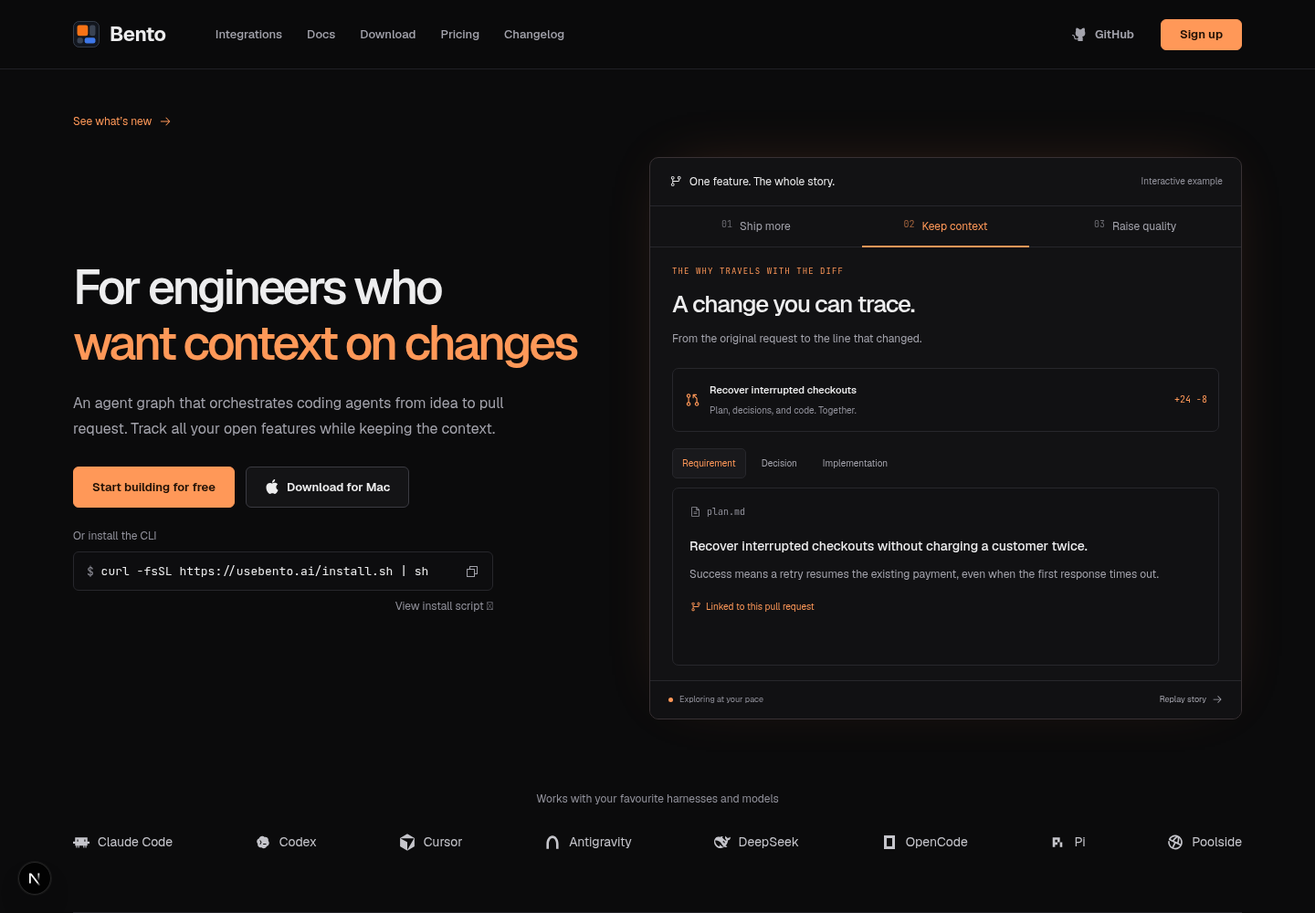
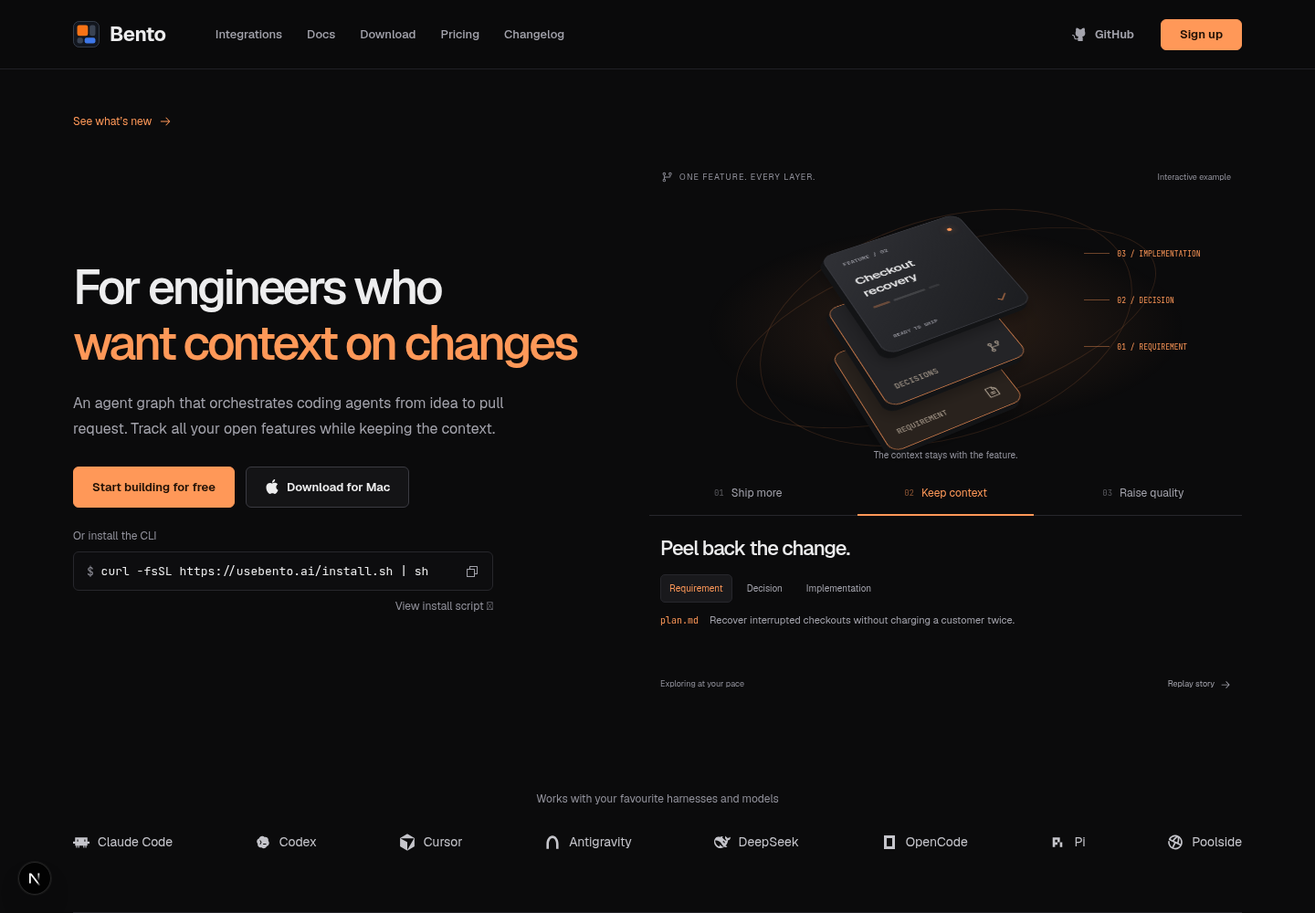
Transform the hero into animated 3D feature layers

diff --git a/app/marketing.css b/app/marketing.css
@@ -782,84 +782,94 @@ body:has(.marketing-page) {
   .marketing-page *, .marketing-page *::before, .marketing-page *::after { animation: none !important; transition: none !important; scroll-behavior: auto !important; }
 }
 
-/* The hero's headline and example share one story clock. */
+/* A shared 3D sculpture transforms with the headline. */
 @media (min-width: 801px) { .m-hero-heading:has(.hero-story-demo) { padding-block: 24px; } }
-.hero-story-demo { font-size: 12px; }
-.story-topbar, .story-topbar > span, .story-footer, .story-footer > span { display: flex; align-items: center; }
-.story-topbar { justify-content: space-between; gap: 12px; padding: 17px 20px; border-bottom: 1px solid var(--line); }
-.story-topbar > span { gap: 8px; }
-.story-example { color: var(--text-faint); font-size: 10px; }
-.story-chapters { display: grid; grid-template-columns: repeat(3, minmax(0, 1fr)); border-bottom: 1px solid var(--line); padding: 0 12px; }
-.story-chapters button { position: relative; display: flex; justify-content: center; gap: 8px; padding: 13px 4px; color: var(--text-muted); background: none; border: 0; font: inherit; cursor: pointer; }
-.story-chapters button > span { font: 10px var(--font-jetbrains-mono), monospace; opacity: .6; }
+.marketing-page .hero-story-demo { --slab: #1f2024; --slab-edge: #37383e; --slab-ink: #ededee; border: 0; background: transparent; box-shadow: none; overflow: visible; font-size: 12px; }
+.story-topbar { display: flex; align-items: center; justify-content: space-between; gap: 10px; color: var(--text-faint); font-size: 9px; padding-inline: 12px; }
+.story-topbar > span:first-child { display: flex; align-items: center; gap: 7px; letter-spacing: .12em; }
+.feature-stage { position: relative; height: 315px; perspective: 1100px; isolation: isolate; overflow: hidden; }
+.feature-stage::before { content: ""; position: absolute; inset: 12% 6%; background: radial-gradient(ellipse, color-mix(in srgb, var(--brand) 14%, transparent), transparent 65%); }
+.feature-orbit { position: absolute; width: 420px; height: 240px; left: 50%; top: 38px; border: 1px solid color-mix(in srgb, var(--brand) 14%, transparent); border-radius: 50%; transform: translateX(-50%) rotate(-17deg); }
+.feature-orbit::after { content: ""; position: absolute; inset: 30px -30px; border: inherit; border-radius: 50%; }
+.feature-world { position: absolute; left: 50%; top: 47%; width: 0; height: 0; transform-style: preserve-3d; transform: rotateX(46deg) rotateZ(-28deg); }
+.feature-cluster { position: absolute; width: 160px; height: 160px; left: -80px; top: -80px; transform-style: preserve-3d; transition: transform 1000ms cubic-bezier(.22,1,.36,1), opacity 650ms; }
+.feature-cluster-0 { transform: translate3d(-167px, -32px, 12px); }
+.feature-cluster-1 { transform: translate3d(0, 16px, 36px); }
+.feature-cluster-2 { transform: translate3d(167px, 64px, 60px); }
+.feature-slab { position: absolute; inset: 0; border: 1px solid var(--slab-edge); border-radius: 13px; background: var(--slab); color: var(--slab-ink); box-shadow: -1px 1px 0 #131416, -2px 2px 0 #131416, -3px 3px 0 #131416, -4px 4px 0 #131416, -5px 5px 0 #131416, -6px 6px 0 #131416, -8px 12px 18px #0004; padding: 16px; transition: transform 1000ms cubic-bezier(.22,1,.36,1), background 650ms, border-color 650ms; backface-visibility: hidden; }
+.feature-slab-base, .feature-slab-middle { display: flex; align-items: flex-end; justify-content: space-between; font: 9px var(--font-jetbrains-mono), monospace; color: #b7a999; }
+.feature-slab-base { transform: translateZ(-22px); background: #29221d; border-color: #5a4030; }
+.feature-slab-middle { transform: translateZ(-11px); background: #242427; }
+.feature-slab-top { transform: translateZ(0); background: linear-gradient(135deg, #303136, #1c1d20); }
+.feature-card-top, .feature-card-bottom { display: flex; align-items: center; justify-content: space-between; color: #b6b6bf; font: 7px var(--font-jetbrains-mono), monospace; }
+.feature-card-top i { width: 5px; height: 5px; border-radius: 50%; background: #ff9858; box-shadow: 0 0 8px #ff985880; }
+.feature-slab-top strong { display: block; max-width: 100px; margin-top: 16px; font-size: 15px; font-weight: 550; line-height: 1.3; letter-spacing: -.03em; }
+.feature-card-lines { display: flex; gap: 4px; margin-top: 12px; }
+.feature-card-lines i { width: 18px; height: 3px; border-radius: 3px; background: #ff98584d; }
+.feature-card-lines i:nth-child(2) { width: 35px; background: #ffffff20; }
+.feature-card-lines i:nth-child(3) { width: 12px; background: #ffffff15; }
+.feature-card-bottom { position: absolute; bottom: 12px; left: 16px; right: 16px; font-size: 6px; }
+.feature-card-bottom svg { color: #ff9858; }
+.hero-story-demo:not([data-chapter="0"]) .feature-cluster-0 { transform: translate3d(-260px, 0, -100px) scale(.6); opacity: 0; }
+.hero-story-demo:not([data-chapter="0"]) .feature-cluster-2 { transform: translate3d(260px, 0, -100px) scale(.6); opacity: 0; }
+.hero-story-demo[data-chapter="1"] .feature-cluster-1 { transform: translate3d(-36px, 20px, 0); }
+.hero-story-demo[data-chapter="1"] .feature-cluster-1 .feature-slab-base { transform: translateZ(-56px); border-color: #be7346; }
+.hero-story-demo[data-chapter="1"] .feature-cluster-1 .feature-slab-middle { transform: translateZ(14px); border-color: #be7346; }
+.hero-story-demo[data-chapter="1"] .feature-cluster-1 .feature-slab-top { transform: translateZ(88px); }
+.hero-story-demo[data-chapter="2"] .feature-cluster-1 { transform: translate3d(-20px, 10px, 12px); }
+.hero-story-demo[data-chapter="2"] .feature-cluster-1 .feature-slab { border-color: #ff9858; }
+.feature-scan { position: absolute; width: 188px; height: 188px; top: -98px; left: -114px; border: 1px solid #ff9858; border-radius: 17px; display: flex; justify-content: space-between; align-items: flex-start; padding: 13px; color: #ffb786; background: linear-gradient(135deg, #ff98581a, #ff985808); box-shadow: 0 0 30px #ff985822, inset 0 0 30px #ff985811; transform: translateZ(100px); opacity: 0; transition: opacity 600ms; }
+.feature-scan span { font: 7px var(--font-jetbrains-mono), monospace; }
+.hero-story-demo[data-chapter="2"] .feature-scan { opacity: 1; }
+.feature-callout { position: absolute; opacity: 0; transition: opacity 500ms; color: var(--brand); font: 8px var(--font-jetbrains-mono), monospace; }
+.feature-callout-context { right: 7%; top: 72px; display: grid; gap: 41px; }
+.feature-callout-context span { position: relative; }
+.feature-callout-context span::before { content: ""; position: absolute; right: calc(100% + 8px); top: 4px; width: 28px; height: 1px; background: var(--brand); opacity: .4; }
+.feature-callout-quality { left: 50%; bottom: 44px; transform: translateX(-50%); display: flex; align-items: center; gap: 6px; white-space: nowrap; }
+.hero-story-demo[data-chapter="1"] .feature-callout-context, .hero-story-demo[data-chapter="2"] .feature-callout-quality { opacity: 1; }
+.feature-stage-caption { position: absolute; bottom: 10px; width: 100%; text-align: center; color: var(--text-faint); font-size: 10px; }
+@media (prefers-reduced-motion: no-preference) {
+  .hero-story-demo[data-chapter="0"] .feature-slab-top { animation: feature-float 3s ease-in-out infinite alternate; }
+  .hero-story-demo[data-chapter="0"] .feature-cluster-0 .feature-slab-top { animation-delay: -.8s; }
+  .hero-story-demo[data-chapter="0"] .feature-cluster-2 .feature-slab-top { animation-delay: -1.6s; }
+  .hero-story-demo[data-chapter="2"][data-approved="false"] .feature-scan { animation: feature-inspect 2.8s ease-in-out infinite alternate; }
+  @keyframes feature-float { from { transform: translateZ(0); } to { transform: translateZ(17px); } }
+  @keyframes feature-inspect { from { transform: translateZ(92px); } to { transform: translateZ(-30px); } }
+}
+.hero-story-demo[data-approved="true"] .feature-scan { transform: translateZ(-30px); background: #ff98581c; }
+.story-chapters { display: grid; grid-template-columns: repeat(3, minmax(0, 1fr)); border-bottom: 1px solid var(--line); }
+.story-chapters button { position: relative; display: flex; align-items: center; justify-content: center; gap: 8px; padding: 15px 4px; color: var(--text-muted); background: none; border: 0; font: inherit; cursor: pointer; }
+.story-chapters button > span { font: 9px var(--font-jetbrains-mono), monospace; opacity: .5; }
 .story-chapters button[aria-pressed="true"] { color: var(--brand); }
 .story-chapters button[aria-pressed="true"]::after { content: ""; position: absolute; height: 2px; bottom: -1px; left: 12px; right: 12px; background: var(--brand); }
 .story-scenes { display: grid; }
-.story-scene { grid-area: 1 / 1; min-width: 0; padding: 20px 24px 16px; opacity: 0; visibility: hidden; transform: translateY(8px); transition: opacity 350ms ease, transform 350ms ease, visibility 350ms; }
+.story-scene { grid-area: 1 / 1; min-width: 0; padding: 19px 12px 12px; opacity: 0; visibility: hidden; transform: translateY(8px); transition: opacity 350ms ease, transform 350ms ease, visibility 350ms; }
 .story-scene[data-active="true"] { opacity: 1; visibility: visible; transform: none; }
-.story-eyebrow { color: var(--brand); font: 9px var(--font-jetbrains-mono), monospace; letter-spacing: .12em; margin-bottom: 11px; }
-.story-scene h2 { margin: 0; font-size: clamp(20px, 2vw, 26px); font-weight: 520; letter-spacing: -.045em; }
-.story-intro { color: var(--text-muted); font-size: 12px; line-height: 1.6; margin: 9px 0 22px; }
-.story-graph { display: grid; grid-template-columns: 1fr 1.2fr 1fr; align-items: center; gap: 18px; margin: 16px 0; }
-.story-node { position: relative; display: flex; flex-direction: column; align-items: flex-start; gap: 5px; padding: 9px 10px; border: 1px solid var(--line); background: var(--surface); border-radius: 7px; min-width: 0; }
-.story-node strong { font-size: 11px; font-weight: 550; }
-.story-node span { font-size: 9px; color: var(--text-muted); line-height: 1.4; }
-.story-node > svg:first-child { color: var(--brand); }
-.story-node > svg:last-child:not(:first-child), .story-node i { position: absolute; top: 14px; right: 10px; color: var(--brand); }
-.story-node-working { border-color: color-mix(in srgb, var(--brand) 35%, var(--line)); background: color-mix(in srgb, var(--brand) 5%, var(--surface)); }
-.story-branches { display: grid; gap: 12px; position: relative; }
-.story-branches::before, .story-branches::after { content: ""; position: absolute; top: 24%; bottom: 24%; width: 10px; border: 1px solid var(--brand); opacity: .45; }
-.story-branches::before { left: -12px; border-right: 0; border-radius: 5px 0 0 5px; }
-.story-branches::after { right: -12px; border-left: 0; border-radius: 0 5px 5px 0; }
-.story-queue { display: flex; align-items: center; justify-content: space-between; gap: 8px; padding: 8px 0; border-top: 1px solid var(--line); font-size: 10px; }
-.story-queue > span:first-child { display: flex; align-items: center; gap: 7px; }
-.story-queue > span:last-child { color: var(--text-faint); font-size: 9px; }
-.story-queue svg { color: var(--brand); }
-.story-node i, .story-queue i, .story-dot { display: inline-block; width: 5px; height: 5px; flex-shrink: 0; border-radius: 50%; background: var(--brand); }
-.story-pr { display: flex; align-items: center; gap: 10px; padding: 15px 12px; border: 1px solid var(--line); border-radius: 7px; background: var(--surface); }
-.story-pr > svg { color: var(--brand); flex-shrink: 0; }
-.story-pr > div { display: grid; gap: 6px; }
-.story-pr strong { font-size: 11px; font-weight: 550; }
-.story-pr span:not(.story-badge) { color: var(--text-faint); font-size: 10px; }
-.story-badge { margin-left: auto; color: var(--brand); white-space: nowrap; font: 10px var(--font-jetbrains-mono), monospace; }
-.story-artifact-tabs { display: flex; gap: 6px; margin: 18px 0 10px; }
-.story-artifact-tabs button { border: 1px solid transparent; background: transparent; color: var(--text-muted); padding: 8px 10px; font: inherit; font-size: 10px; cursor: pointer; border-radius: 5px; }
+.story-scene h2 { margin: 0; font-size: 22px; font-weight: 520; letter-spacing: -.045em; }
+.story-scene p { color: var(--text-muted); font-size: 12px; line-height: 1.65; margin: 10px 0 15px; max-width: 470px; }
+.story-shipping { display: flex; align-items: center; gap: 20px; color: var(--brand); font-size: 10px; margin-top: 20px; }
+.story-shipping > span { display: flex; align-items: center; gap: 6px; }
+.story-shipping i { width: 5px; height: 5px; border-radius: 50%; background: var(--brand); }
+.story-artifact-tabs { display: flex; gap: 6px; margin: 12px 0 10px; }
+.story-artifact-tabs button { border: 1px solid transparent; background: transparent; color: var(--text-muted); padding: 7px 9px; font: inherit; font-size: 10px; cursor: pointer; border-radius: 5px; }
 .story-artifact-tabs button[aria-pressed="true"] { background: var(--surface-raised); border-color: var(--line); color: var(--brand); }
-.story-artifact { min-height: 195px; padding: 18px; border: 1px solid var(--line); border-radius: 7px; background: var(--surface); }
-.story-artifact code { display: flex; align-items: center; gap: 6px; color: var(--text-faint); font-size: 10px; margin-bottom: 20px; }
-.story-artifact strong { display: block; font-size: 14px; font-weight: 500; line-height: 1.5; }
-.story-artifact p { color: var(--text-muted); line-height: 1.7; font-size: 12px; margin: 10px 0 18px; }
-.story-linked { color: var(--brand); font-size: 10px; display: flex; align-items: center; gap: 5px; }
-.story-finding { display: flex; gap: 12px; padding: 16px; border: 1px solid color-mix(in srgb, var(--brand) 30%, var(--line)); background: color-mix(in srgb, var(--brand) 6%, var(--surface)); border-radius: 7px; }
-.story-finding > svg { color: var(--brand); flex-shrink: 0; }
-.story-finding strong { font-size: 12px; font-weight: 550; line-height: 1.5; }
-.story-finding p { color: var(--text-muted); line-height: 1.6; font-size: 11px; margin: 7px 0 0; }
-.story-diff { border: 1px solid var(--line); border-radius: 6px; overflow: hidden; margin: 18px 0; }
-.story-diff code { display: block; padding: 13px 12px; font-size: clamp(9px, .85vw, 11px); overflow-wrap: anywhere; }
-.story-removed { background: color-mix(in srgb, #e75e5e 8%, var(--surface)); color: var(--text-muted); }
-.story-added { background: color-mix(in srgb, var(--brand) 8%, var(--surface)); color: var(--brand); }
-.story-check { display: flex; align-items: center; gap: 7px; font-size: 11px; color: var(--brand); }
-.story-approval { margin-top: 25px; border-top: 1px solid var(--line); padding-top: 18px; display: flex; align-items: center; justify-content: space-between; gap: 12px; }
+.story-artifact { display: flex; gap: 12px; align-items: baseline; min-height: 45px; }
+.story-artifact code { flex-shrink: 0; color: var(--brand); font-size: 10px; }
+.story-artifact p { font-size: 11px; margin: 0; }
+.story-approval { display: flex; align-items: center; justify-content: space-between; gap: 12px; margin-top: 10px; }
 .story-approval > span { color: var(--text-muted); font-size: 10px; }
-.story-approval button { display: flex; align-items: center; gap: 6px; border: 0; border-radius: 5px; padding: 10px 12px; background: var(--brand); color: var(--on-brand); font: inherit; font-size: 10px; cursor: pointer; }
+.story-approval button { display: flex; align-items: center; gap: 6px; border: 0; border-radius: 5px; padding: 9px 12px; background: var(--brand); color: var(--on-brand); font: inherit; font-size: 10px; cursor: pointer; }
 .story-approval button:disabled { background: var(--surface-raised); color: var(--brand); cursor: default; }
-.story-footer { justify-content: space-between; gap: 10px; border-top: 1px solid var(--line); padding: 10px 20px; background: var(--surface); color: var(--text-faint); font-size: 9px; }
-.story-footer > span { gap: 7px; }
+.story-footer { display: flex; align-items: center; justify-content: space-between; gap: 10px; padding: 12px; color: var(--text-faint); font-size: 9px; }
 .story-footer button { display: flex; align-items: center; gap: 6px; padding: 4px 0; color: var(--text-muted); background: none; border: 0; font: inherit; cursor: pointer; }
 .hero-story-demo button:focus-visible { outline: 2px solid var(--brand); outline-offset: 3px; }
 @media (max-width: 1100px) and (min-width: 801px), (max-width: 520px) {
-  .story-topbar { padding: 14px; }
-  .story-topbar > span:first-child { font-size: 10px; }
-  .story-example { font-size: 8px; }
-  .story-scene { padding: 22px 14px 18px; }
-  .story-chapters { padding-inline: 4px; }
+  .feature-world { transform: scale(.73) rotateX(46deg) rotateZ(-28deg); }
+  .feature-stage { height: 270px; }
+  .feature-callout-context { right: 1%; font-size: 6px; gap: 29px; top: 72px; }
+  .feature-callout-context span::before { width: 13px; }
+  .story-scene h2 { font-size: 20px; }
   .story-chapters button { font-size: 10px; gap: 5px; }
-  .story-pr { padding: 12px 9px; gap: 7px; }
-  .story-badge { display: none; }
-  .story-artifact { padding: 14px; }
-  .story-graph { gap: 15px; }
-  .story-node { padding: 10px 7px; }
-  .story-node strong { font-size: 10px; }
-  .story-node span { font-size: 8px; }
-  .story-footer { padding-inline: 14px; }
+  .story-topbar { font-size: 8px; padding-inline: 0; }
+  .story-topbar > span:first-child { letter-spacing: .04em; }
 }

diff --git a/components/marketing/hero-story-demo.tsx b/components/marketing/hero-story-demo.tsx
@@ -1,57 +1,57 @@
 "use client";
 
 import { useState } from "react";
-import { ArrowRight, Check, CheckCircle, FileText, GitBranch, GitPullRequest, ShieldCheck } from "@phosphor-icons/react";
+import { ArrowRight, Check, FileText, GitBranch, ShieldCheck } from "@phosphor-icons/react";
 import { useHeroStory } from "./hero-story";
 
 const chapters = ["Ship more", "Keep context", "Raise quality"];
+const features = ["Billing empty states", "Checkout recovery", "Rate limit API"];
 const artifacts = [
-  { label: "Requirement", file: "plan.md", text: "Recover interrupted checkouts without charging a customer twice.", detail: "Success means a retry resumes the existing payment, even when the first response times out." },
-  { label: "Decision", file: "decisions.md", text: "One checkout. One idempotency key.", detail: "Reuse the checkout ID across retries. A timeout does not mean the original payment failed." },
-  { label: "Implementation", file: "checkout.ts", text: "Carry the checkout ID into every payment request.", detail: "The implementation links back to the plan and decision, so a reviewer can follow why this changed." },
+  { label: "Requirement", file: "plan.md", text: "Recover interrupted checkouts without charging a customer twice." },
+  { label: "Decision", file: "decisions.md", text: "One checkout. One idempotency key." },
+  { label: "Implementation", file: "checkout.ts", text: "Carry the checkout ID into every payment request." },
 ];
 
 export function HeroStoryDemo() {
   const { active, selected, select, replay } = useHeroStory();
   const [artifact, setArtifact] = useState(0);
   const [approved, setApproved] = useState(false);
-  return <div className="m-demo hero-visual hero-story-demo" id="product">
-    <div className="story-topbar"><span><GitBranch size={15} /> One feature. The whole story.</span><span className="story-example">Interactive example</span></div>
+  return <div className="m-demo hero-visual hero-story-demo" id="product" data-chapter={active} data-approved={approved}>
+    <div className="story-topbar"><span><GitBranch size={14} /> ONE FEATURE. EVERY LAYER.</span><span>Interactive example</span></div>
+    <div className="feature-stage" aria-hidden="true">
+      <div className="feature-orbit" />
+      <div className="feature-world">
+        {features.map((feature, index) => <div className={`feature-cluster feature-cluster-${index}`} key={feature}>
+          <div className="feature-slab feature-slab-base"><span>REQUIREMENT</span><FileText size={18} /></div>
+          <div className="feature-slab feature-slab-middle"><span>DECISIONS</span><GitBranch size={18} /></div>
+          <div className="feature-slab feature-slab-top"><div className="feature-card-top"><span>FEATURE / 0{index + 1}</span><i /></div><strong>{feature}</strong><div className="feature-card-lines"><i /><i /><i /></div><div className="feature-card-bottom"><span>{active === 2 ? approved ? "APPROVED" : "REVIEWED" : "READY TO SHIP"}</span><Check size={14} /></div></div>
+        </div>)}
+        <div className="feature-scan"><ShieldCheck size={26} /><span>{approved ? "APPROVED" : "QUALITY CHECK"}</span></div>
+      </div>
+      <div className="feature-callout feature-callout-context"><span>03 / IMPLEMENTATION</span><span>02 / DECISION</span><span>01 / REQUIREMENT</span></div>
+      <div className="feature-callout feature-callout-quality"><ShieldCheck size={14} />{approved ? "Your judgment. Built in." : "Edge case caught before merge."}</div>
+      <span className="feature-stage-caption">{active === 0 ? "Independent features. Moving together." : active === 1 ? "The context stays with the feature." : "Every layer earns its way through."}</span>
+    </div>
     <div className="story-chapters" role="group" aria-label="Explore Bento benefits">
       {chapters.map((label, index) => <button type="button" key={label} aria-pressed={active === index} onClick={() => select(index)}><span>0{index + 1}</span>{label}</button>)}
     </div>
     <div className="story-scenes">
       <section className="story-scene" data-active={active === 0} aria-hidden={active !== 0} inert={active !== 0} aria-label="Ship more">
-        <div className="story-eyebrow">FROM IDEA TO PULL REQUEST</div>
-        <h2>More work moving. Less chasing.</h2>
-        <p className="story-intro">Agents work in parallel. You see the whole graph.</p>
-        <div className="story-graph" aria-label="Checkout recovery flows from plan to implementation and tests, then review">
-          <div className="story-node"><FileText size={18} /><strong>Plan</strong><span>Context captured</span><Check size={13} /></div>
-          <div className="story-branches"><div className="story-node story-node-working"><GitBranch size={18} /><strong>Implement</strong><span>Checkout recovery</span><i /></div><div className="story-node story-node-working"><ShieldCheck size={18} /><strong>Test</strong><span>Retry edge cases</span><i /></div></div>
-          <div className="story-node"><GitPullRequest size={18} /><strong>Review</strong><span>Ready for your eye</span></div>
-        </div>
-        <div className="story-queue"><span><i /> Checkout recovery</span><span>Implementation + tests</span></div>
-        <div className="story-queue"><span><CheckCircle size={14} /> Billing empty states</span><span>PR ready</span></div>
-        <div className="story-queue"><span><i /> Rate limit API</span><span>In review</span></div>
+        <h2>Big ideas. Small, shippable pieces.</h2>
+        <p>Each feature moves independently, with its own agents, context, and review. Keep more work in flight.</p>
+        <div className="story-shipping"><span><i /> 3 features in motion</span><span><Check size={13} /> Context included</span></div>
       </section>
       <section className="story-scene" data-active={active === 1} aria-hidden={active !== 1} inert={active !== 1} aria-label="Keep context">
-        <div className="story-eyebrow">THE WHY TRAVELS WITH THE DIFF</div>
-        <h2>A change you can trace.</h2>
-        <p className="story-intro">From the original request to the line that changed.</p>
-        <div className="story-pr"><GitPullRequest size={18} /><div><strong>Recover interrupted checkouts</strong><span>Plan, decisions, and code. Together.</span></div><span className="story-badge">+24 −8</span></div>
+        <h2>Peel back the change.</h2>
         <div className="story-artifact-tabs" role="group" aria-label="Explore change context">{artifacts.map((item, index) => <button type="button" key={item.file} aria-pressed={artifact === index} onClick={() => { setArtifact(index); select(1); }}>{item.label}</button>)}</div>
-        <div className="story-artifact"><code><FileText size={13} />{artifacts[artifact].file}</code><strong>{artifacts[artifact].text}</strong><p>{artifacts[artifact].detail}</p><span className="story-linked"><GitBranch size={13} /> Linked to this pull request</span></div>
+        <div className="story-artifact"><code>{artifacts[artifact].file}</code><p>{artifacts[artifact].text}</p></div>
       </section>
       <section className="story-scene" data-active={active === 2} aria-hidden={active !== 2} inert={active !== 2} aria-label="Raise quality">
-        <div className="story-eyebrow">A SECOND LOOK BEFORE IT SHIPS</div>
-        <h2>Catch the bug. Keep the bar.</h2>
-        <p className="story-intro">Review finds an edge case. The agent fixes it.</p>
-        <div className="story-finding"><ShieldCheck size={19} /><div><strong>A retry could charge the customer twice.</strong><p>The first payment may succeed even if its response times out.</p></div></div>
-        <div className="story-diff"><code className="story-removed">− idempotencyKey: randomUUID()</code><code className="story-added">+ idempotencyKey: checkout.id</code></div>
-        <div className="story-check"><CheckCircle size={16} /> Retry regression test passed</div>
-        <div className="story-approval"><span role="status">{approved ? "Approved. Ready to merge." : "The final call is yours."}</span><button type="button" disabled={approved} onClick={() => { setApproved(true); select(2); }}>{approved ? <><Check size={14} /> Approved</> : <>Approve example <ArrowRight size={14} /></>}</button></div>
+        <h2>High standards. At every layer.</h2>
+        <p>Review catches a duplicate-charge risk. The agent reuses the checkout ID and adds a retry regression test.</p>
+        <div className="story-approval"><span role="status">{approved ? "Approved. Ready to merge." : "Checks passed. Your call."}</span><button type="button" disabled={approved} onClick={() => { setApproved(true); select(2); }}>{approved ? <><Check size={14} /> Approved</> : <>Approve example <ArrowRight size={14} /></>}</button></div>
       </section>
     </div>
-    <div className="story-footer"><span><span className="story-dot" /> {selected ? "Exploring at your pace" : "One connected workflow"}</span><button type="button" onClick={() => { setApproved(false); setArtifact(0); replay(); }}>Replay story <ArrowRight size={12} /></button></div>
+    <div className="story-footer"><span>{selected ? "Exploring at your pace" : "One connected workflow"}</span><button type="button" onClick={() => { setApproved(false); setArtifact(0); replay(); }}>Replay story <ArrowRight size={12} /></button></div>
   </div>;
 }
